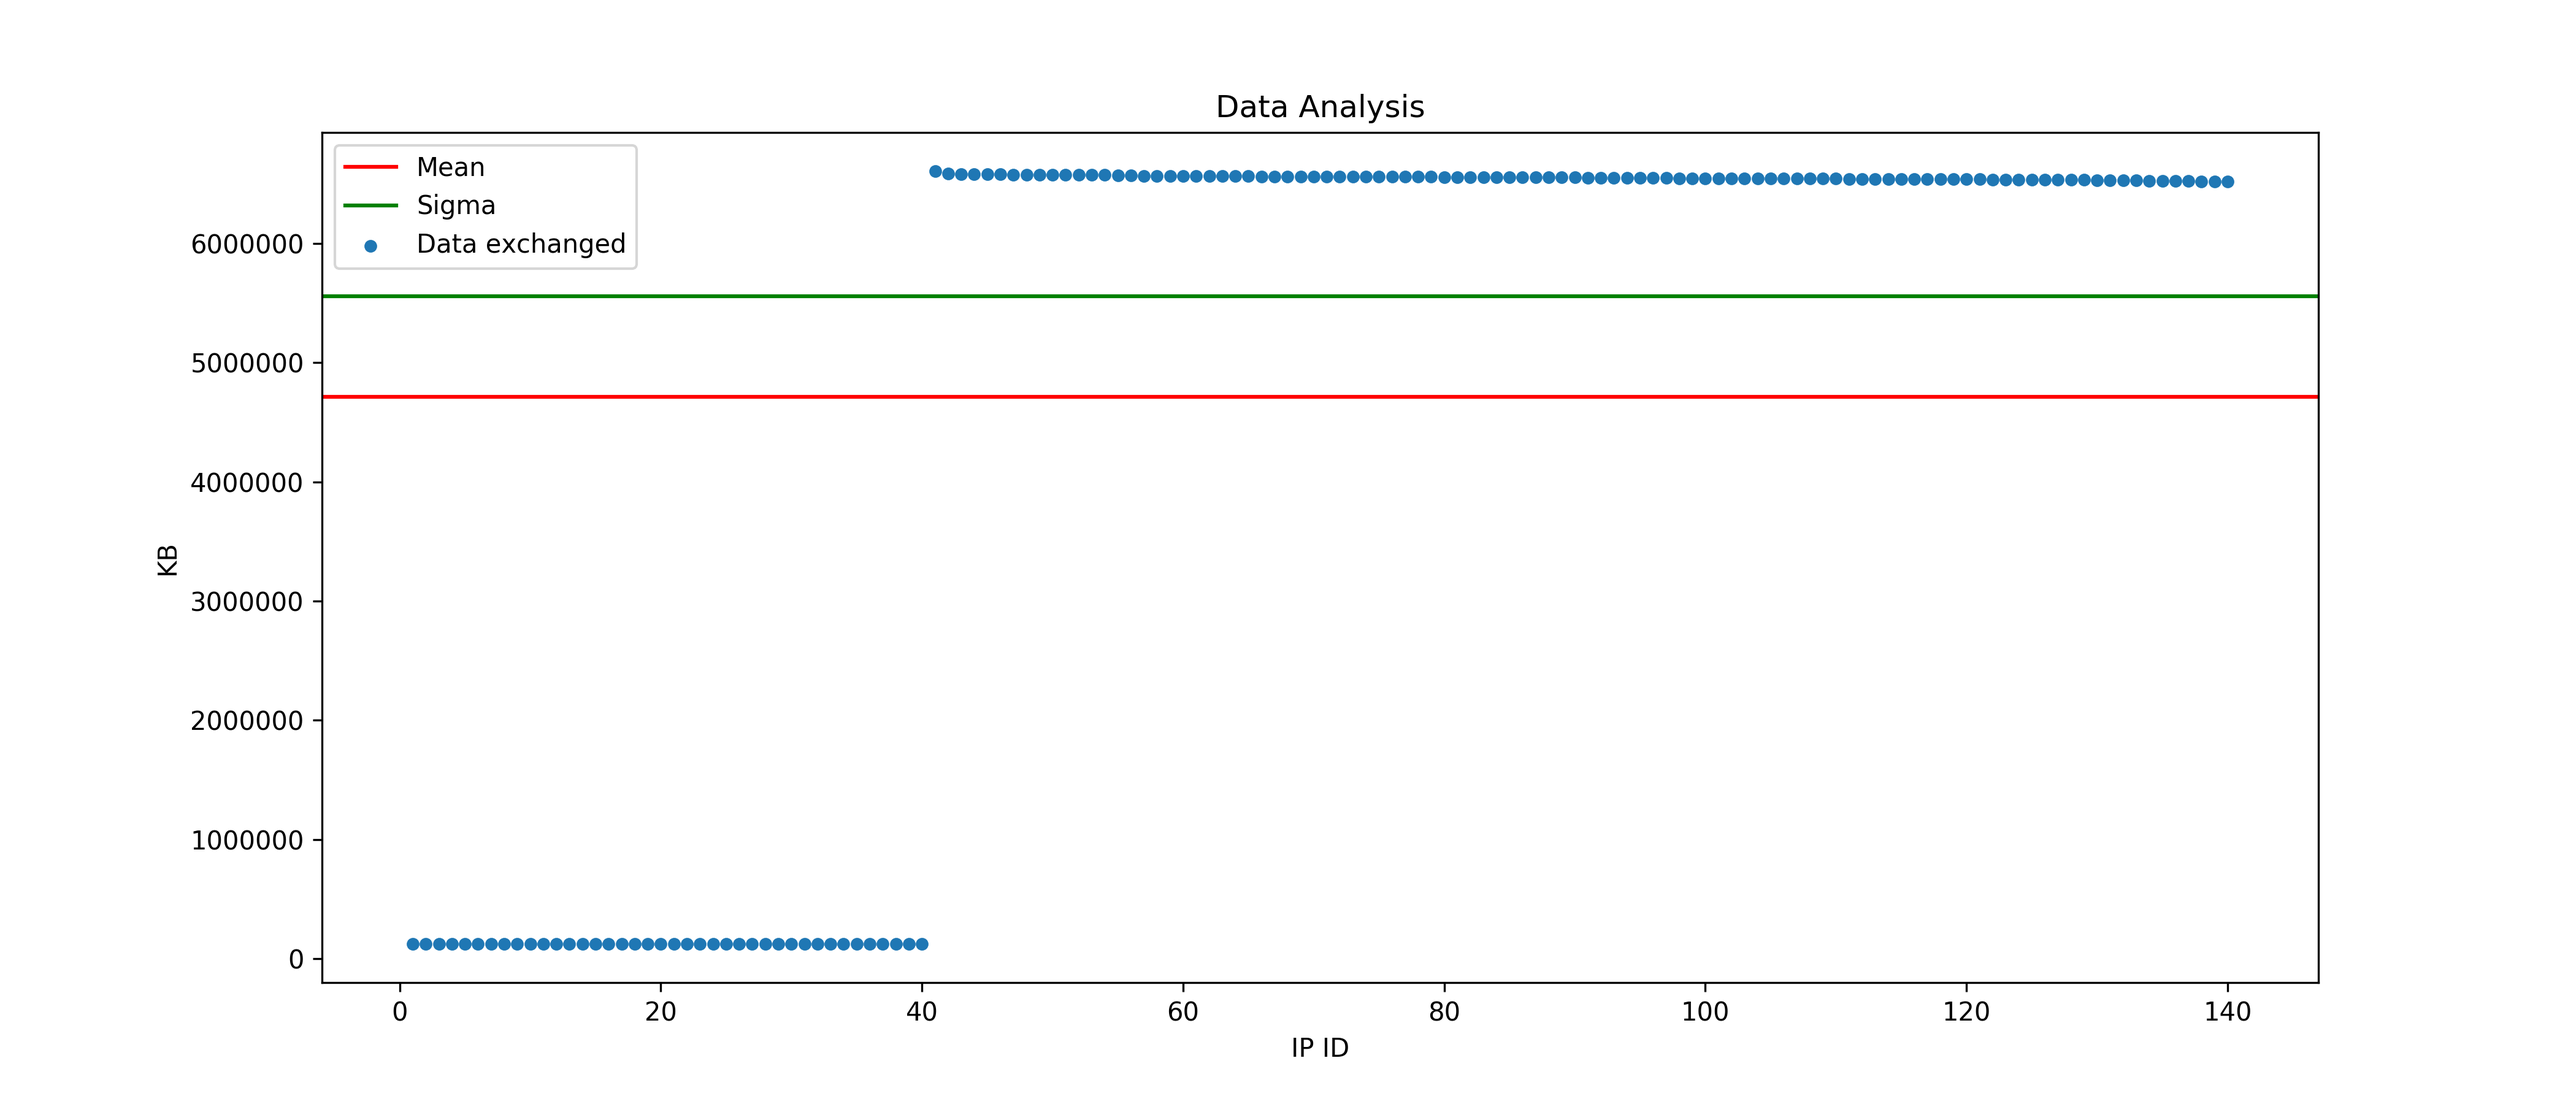
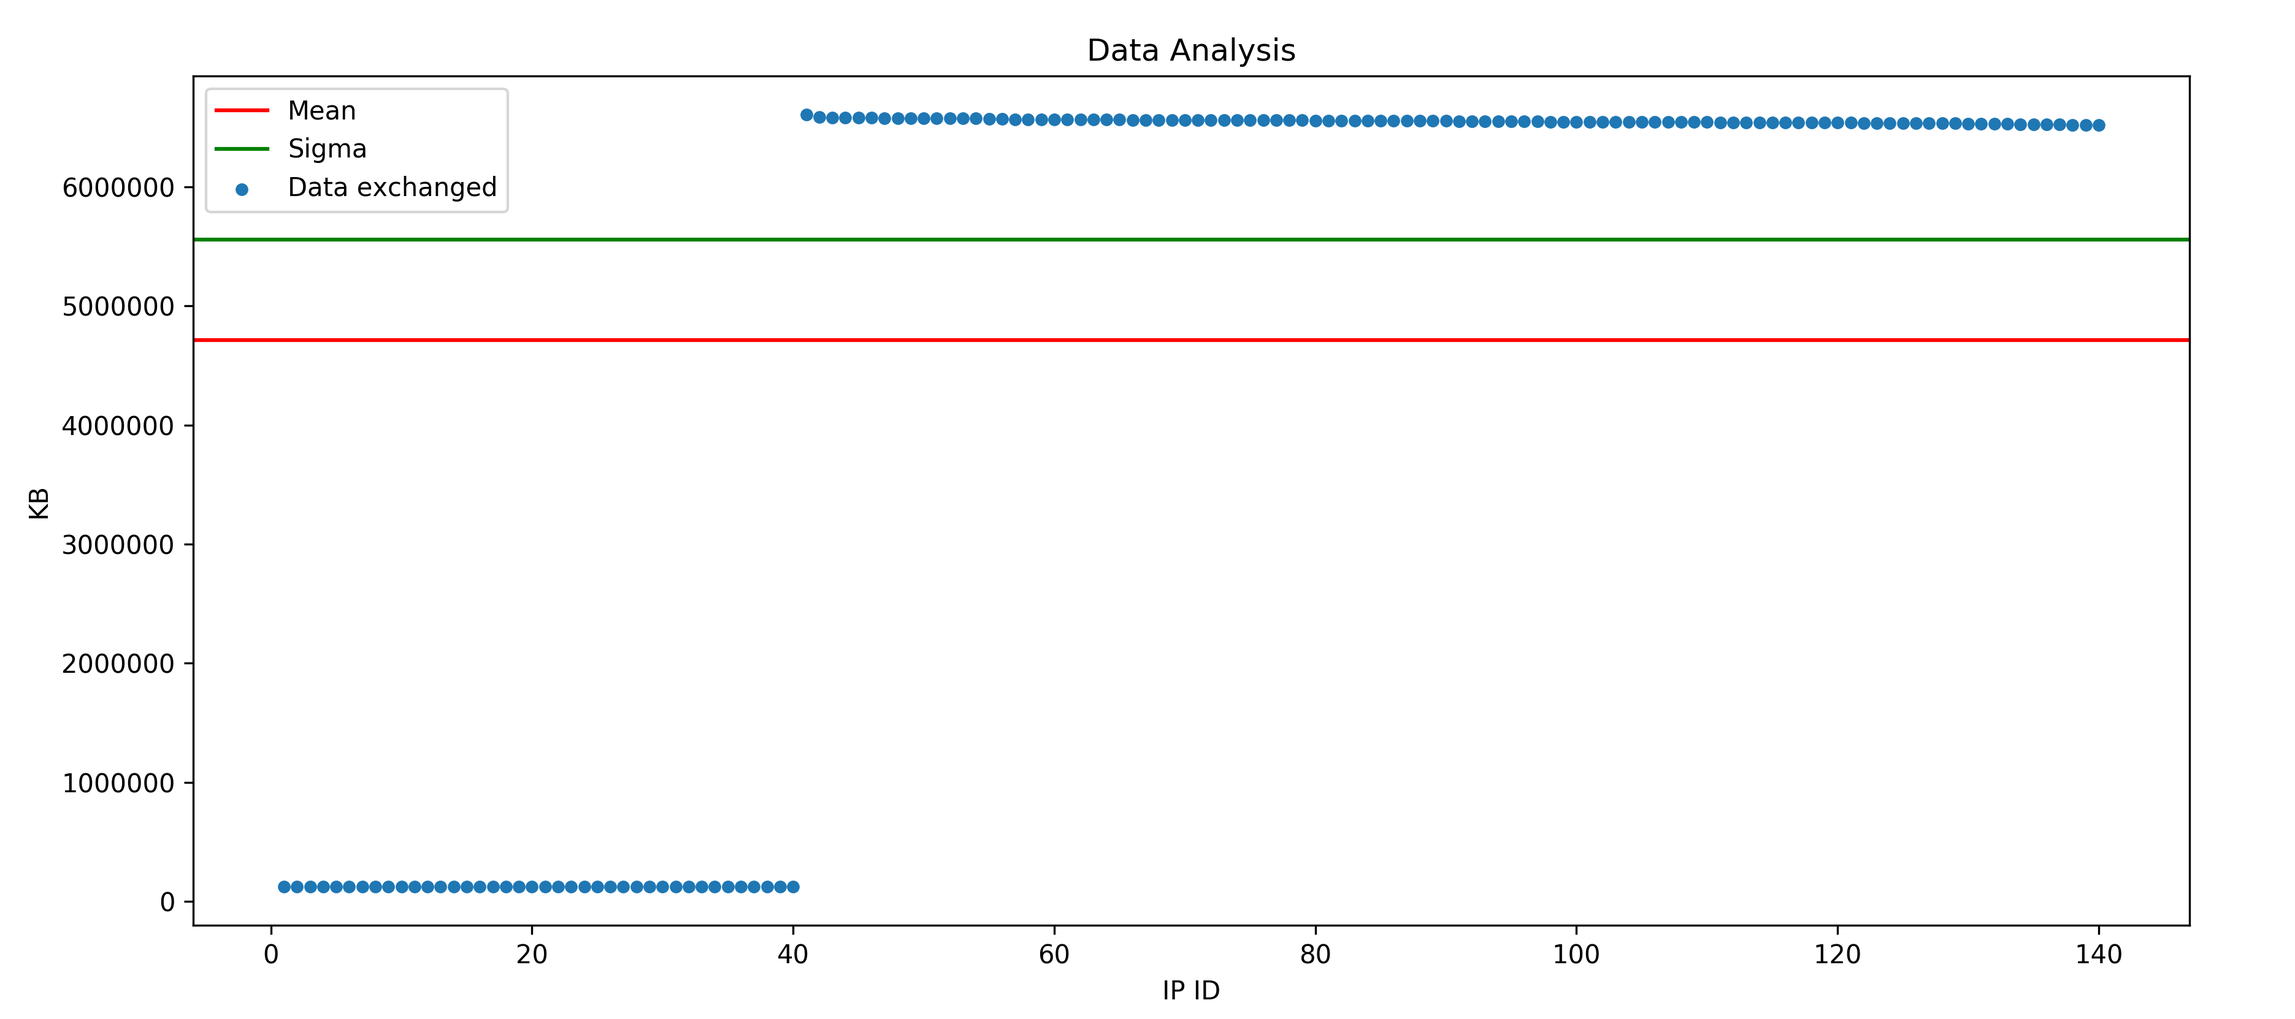
DDoS analisys section

diff --git a/sections/Analysis.tex b/sections/Analysis.tex
@@ -42,6 +42,11 @@ We choose this type of network configuration in order to concentrate our heed on
 \subsection{DoS Analysis Example}
 
 \subsection{DDoS Analysis Example}
+DDoS is a popular approach for attackers to paralyse computers or network systems by coordinating flooding traffic originated from multiple hosts simultaneously, to block legitimate users' system access by reducing resource availability. DDoS attack inherits similar characteristics of DoS attacks, with the differences in an increased scale which in term yields a higher impact\cite{ddos_forensics}.
+
+In our attack scenario, fig. \ref{fig:DDoS},  the attacker controls a botnet of forty devices capable to generate a traffic volume to our server of 1 GB/s. By using \textit{UDP flood} attack the botmaster unleash his botnet against the server for four seconds overwhelming it. Launching our analysis tool, thanks to its big data features, we are capable to deal with the \texttt{ddos\_log} file easily.
+
+The analysis results are shown in fig. \ref{fig:ddos_analysis}, as we can see there are two  visible clusters, one of legitimate users and one of attacker. We can easily recognise attackers from legitimate users because the data exchanged in terms of KB is very low (fig. \ref{fig:ddos_data}) but on the other hand volume of data exchanged in therms of KB over seconds are high respect the average of norma traffic on the server in normal conditions. Our tool output also a dataset which contains the IP and all the statistics previously mentioned, in this dataset we can retrive the ip of the attacker by its id which is used to identify it into the output figures. 
 
 
 
@@ -54,8 +59,21 @@ We choose this type of network configuration in order to concentrate our heed on
 
 
 
-
-
+\begin{figure*}[h]
+	\begin{subfigure}{0.48\textwidth}
+		\includegraphics[width=\textwidth]{imgs/ddos_atk-data_analysis.png}
+		\caption{DoS Data Analysis} 
+		\label{fig:ddos_data}
+	\end{subfigure}
+	\hspace*{\fill} % separation between the subfigures
+	\begin{subfigure}{0.48\textwidth}
+		\includegraphics[width=\textwidth]{imgs/ddos_atk-volume_analysis.png}
+		\caption{DDoS Volume Analysis} 
+		\label{fig:ddos_volume}
+	\end{subfigure}
+	\caption{DDoS attack Analysis}
+	\label{fig:ddos_analysis}
+\end{figure*}
 
 
 
